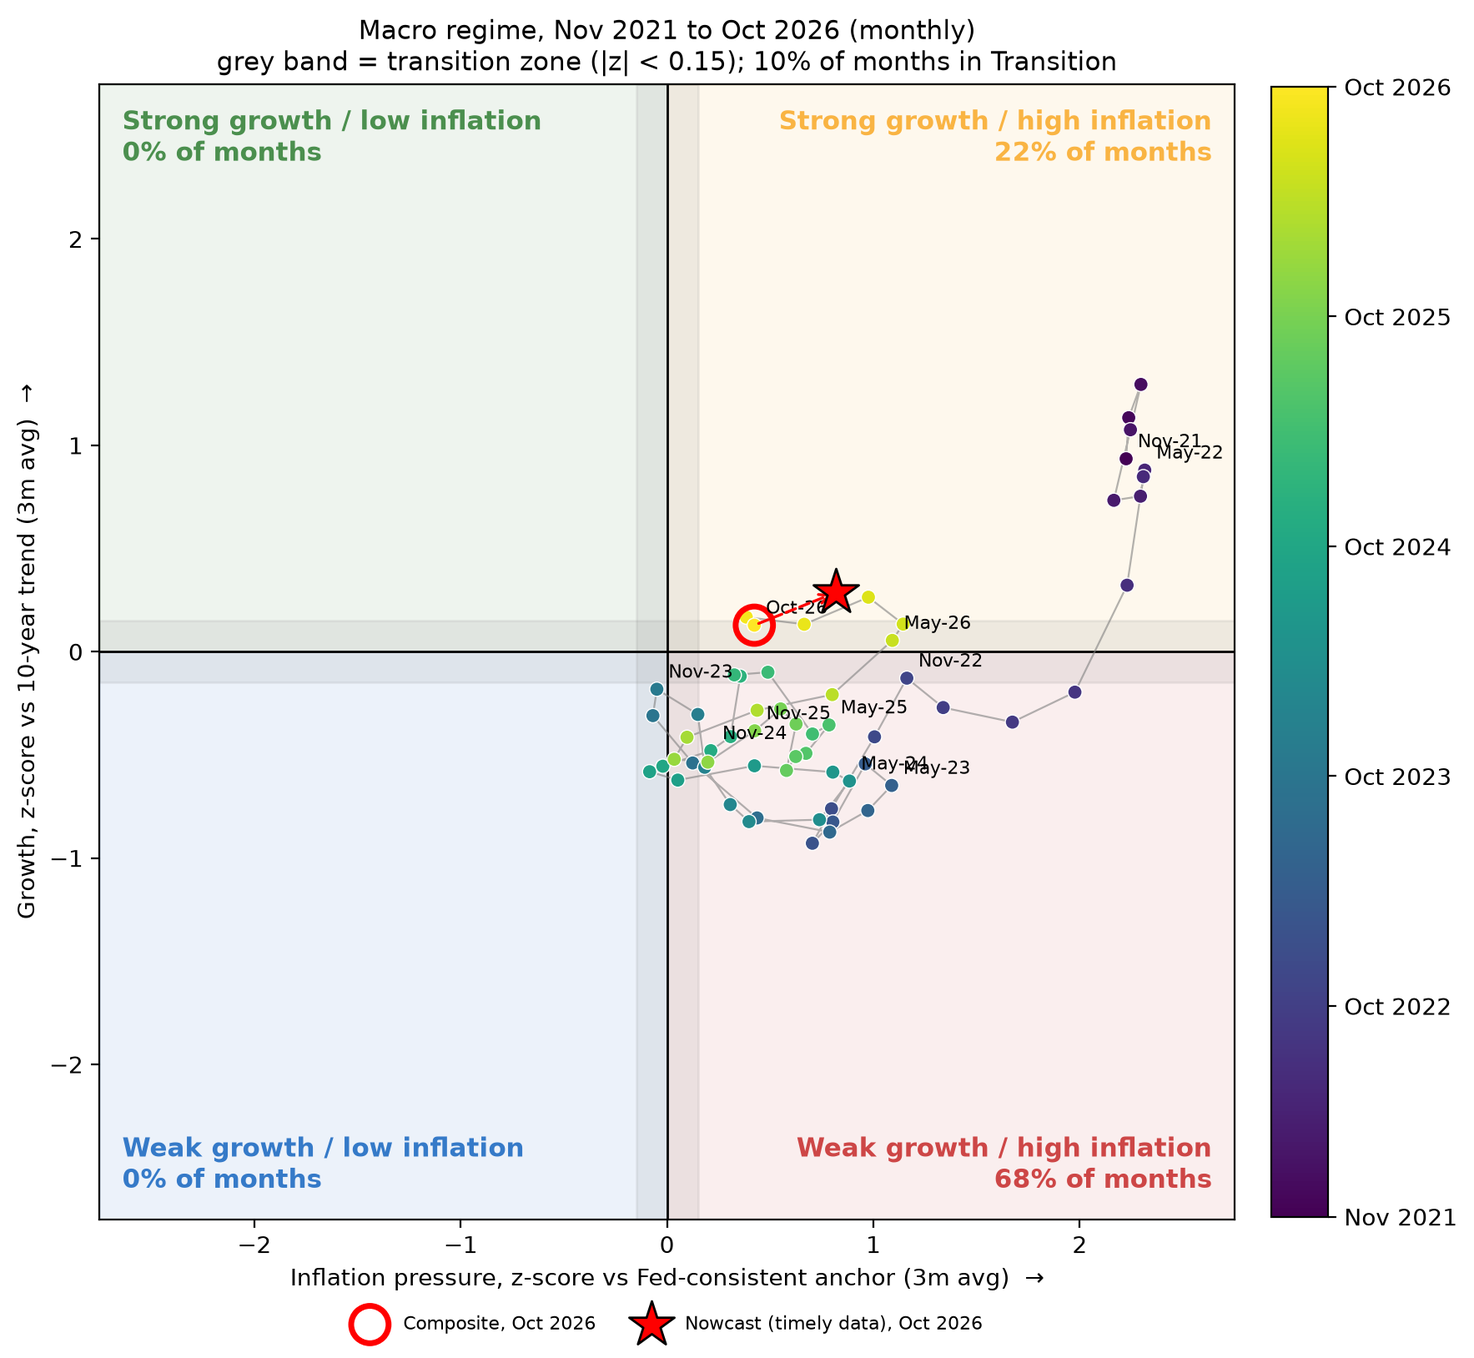
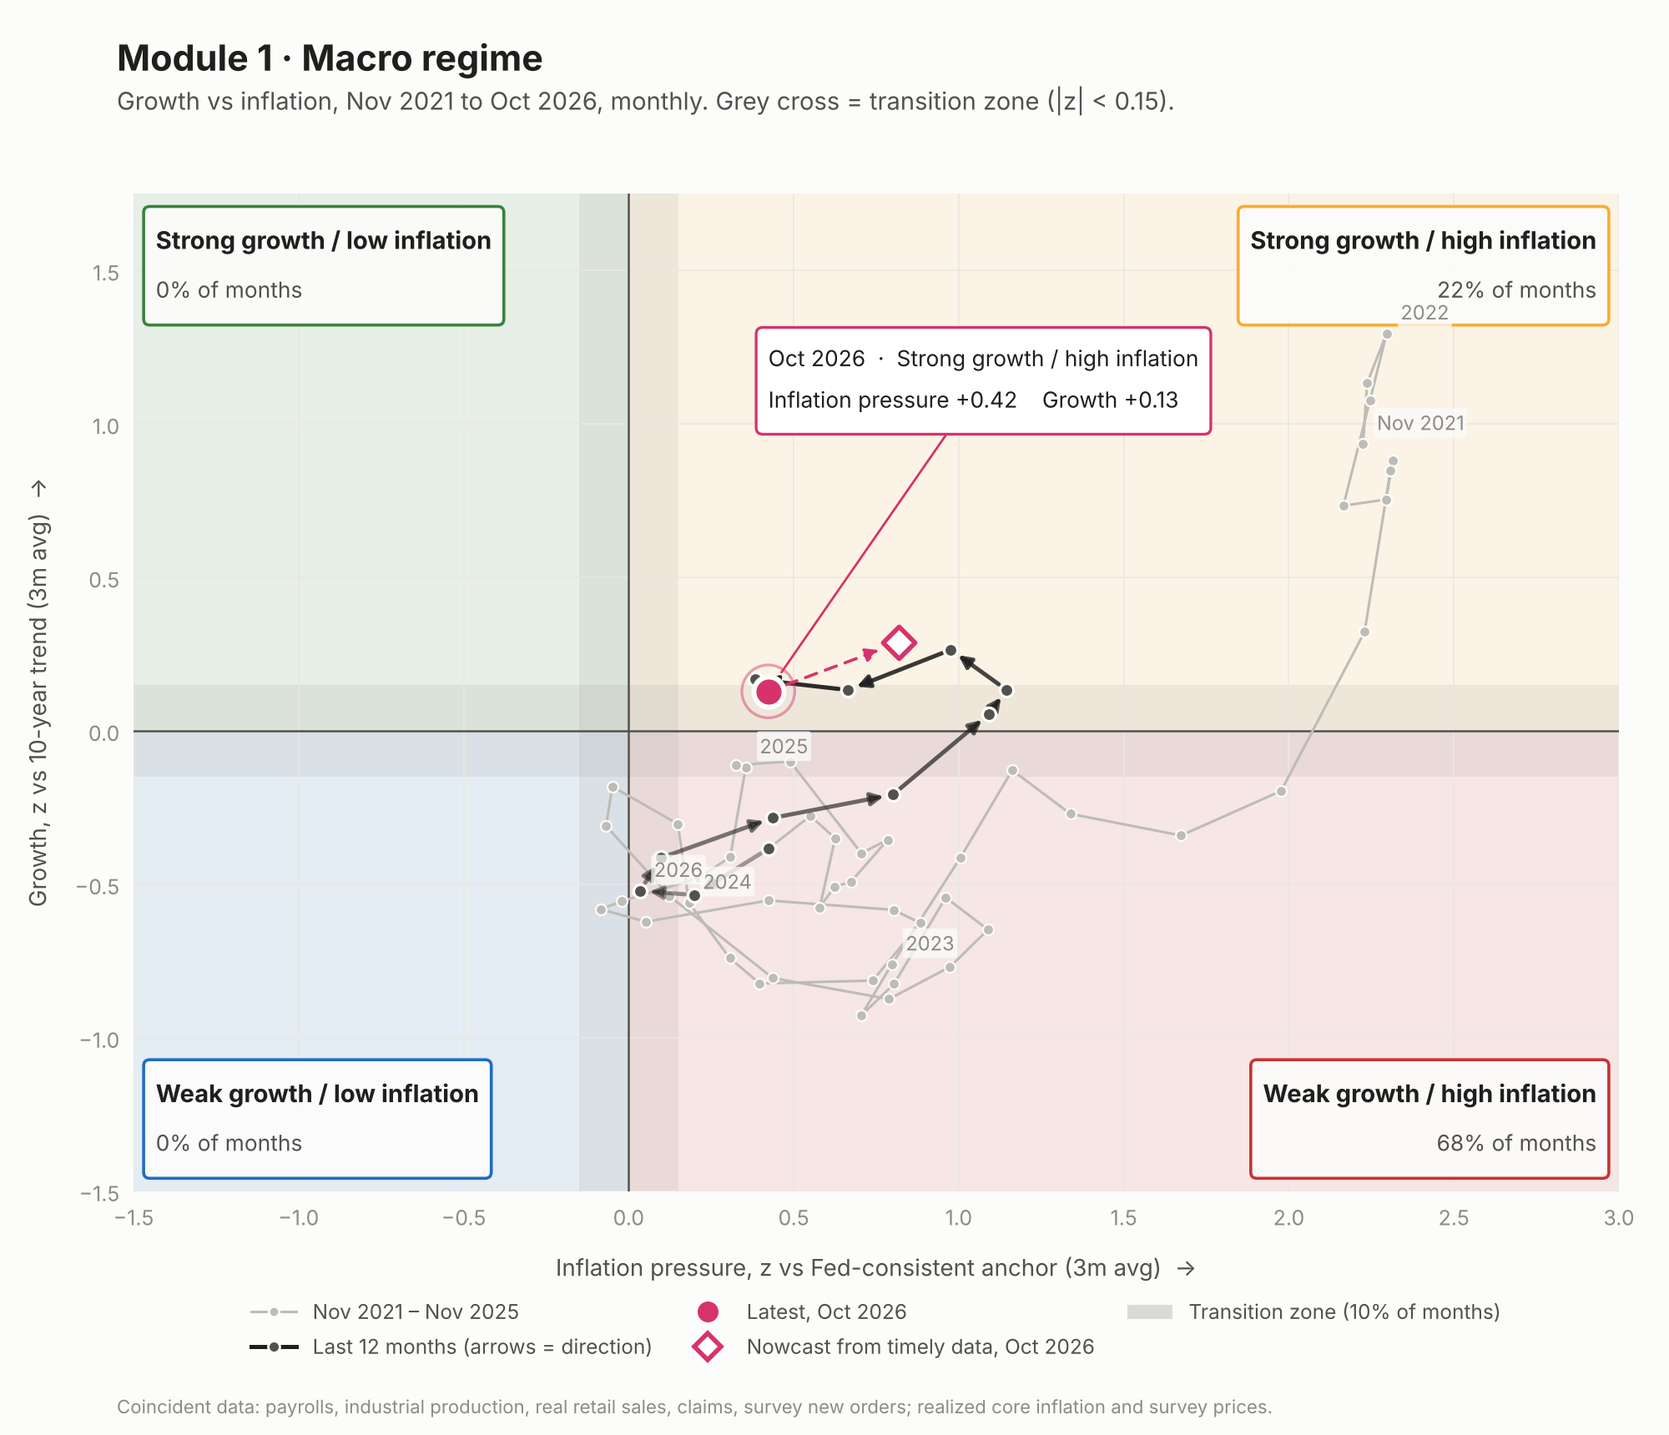
Redesign Module 1 regime quadrant and Module 2 cycle clock
Shared plotting helper (src/quadrant_plot.py): recessive history trail, last 12 months
in ink with direction arrows, latest-reading callout, January year labels, data-fitted
axes, framed quadrant labels. No model, threshold or test changes.

Claude-Session: https://claude.ai/code/session_01XvrXAq3LaeCkBcjdXNqMog

diff --git a/src/quadrant_plot.py b/src/quadrant_plot.py
@@ -1,0 +1,201 @@
+"""Shared quadrant chart used by Module 1 (regime) and Module 2 (cycle clock).
+
+Design:
+  - quadrants are soft tints in the module's regime/phase colour; names sit in the corners with a
+    colour chip, so identity never rests on colour alone
+  - history is a recessive grey trail; the last `recent` months are drawn in ink with arrowheads,
+    so the eye goes to where the economy is heading, not to the oldest points
+  - one dot per month, January of each year labelled (no colourbar needed)
+  - the latest reading gets a callout with its coordinates and state
+  - axes fit the data (origin always visible) instead of a fixed symmetric square
+"""
+import textwrap
+import numpy as np
+import pandas as pd
+import matplotlib.pyplot as plt
+from matplotlib import font_manager
+from matplotlib.patches import Rectangle, FancyArrowPatch
+
+INK = "#1f1f1e"
+INK_2 = "#52514e"
+MUTED = "#8c8b86"
+TRAIL = "#bdbcb6"
+SURFACE = "#fcfcfb"
+ACCENT = "#d6336c"
+BAND = "#8c8b86"   # latest reading / nowcast only
+
+
+def _font():
+    names = {f.name for f in font_manager.fontManager.ttflist}
+    for fam in ["Inter", "Helvetica Neue", "Arial", "DejaVu Sans"]:
+        if fam in names:
+            return fam
+    return "sans-serif"
+
+
+def _crosses(p1, p2, p3, p4):
+    """True if segment p1-p2 properly intersects segment p3-p4."""
+    d = lambda a, b, c: (b[0] - a[0]) * (c[1] - a[1]) - (b[1] - a[1]) * (c[0] - a[0])
+    return (d(p1, p2, p3) * d(p1, p2, p4) < 0) and (d(p3, p4, p1) * d(p3, p4, p2) < 0)
+
+
+def plot_quadrant_path(x, y, labels, path, *, quads, colors, display, band_x, band_y,
+                       xlabel, ylabel, title, subtitle, months=60, recent=12,
+                       nowcast=None, transition="Transition", footer=None):
+    """x, y: monthly Series. labels: monthly state Series.
+    quads: {state: (sx, sy)} with sx, sy in {-1, +1} giving the quadrant of each state.
+    nowcast: optional (x, y, date) drawn as a hollow marker with a dashed arrow from the latest point.
+    """
+    tr = pd.concat([x, y], axis=1, keys=["x", "y"], sort=True).dropna().iloc[-months:]
+    lab = labels.reindex(tr.index)
+    share = lab.value_counts(normalize=True).mul(100)
+    n = len(tr)
+    recent = min(recent, n)
+
+    plt.rcParams.update({"font.family": _font(), "axes.unicode_minus": True})
+    fig, ax = plt.subplots(figsize=(10, 8.6), facecolor=SURFACE)
+    ax.set_facecolor(SURFACE)
+
+    # ---- limits: fit data (+ nowcast), always include origin and the bands, then pad
+    xs = list(tr["x"]) + ([nowcast[0]] if nowcast is not None else []) + [-band_x, band_x]
+    ys = list(tr["y"]) + ([nowcast[1]] if nowcast is not None else []) + [-band_y, band_y]
+    def lim(v):
+        lo, hi = min(min(v), 0), max(max(v), 0)
+        span = max(hi - lo, 1.0)
+        lo, hi = lo - 0.18 * span, hi + 0.18 * span
+        side = 0.42 * (hi - lo)          # every quadrant keeps room for its corner label
+        lo, hi = min(lo, -side), max(hi, side)
+        return np.floor(lo * 4) / 4, np.ceil(hi * 4) / 4
+    (x0, x1), (y0, y1) = lim(xs), lim(ys)
+    ax.set_xlim(x0, x1); ax.set_ylim(y0, y1)
+    X0, X1, Y0, Y1 = x0, x1, y0, y1
+
+    # ---- quadrant tints + transition cross
+    for st, (sx, sy) in quads.items():
+        rx = (0, X1) if sx > 0 else (X0, 0)
+        ry = (0, Y1) if sy > 0 else (Y0, 0)
+        ax.add_patch(Rectangle((rx[0], ry[0]), rx[1] - rx[0], ry[1] - ry[0],
+                               facecolor=colors[st], alpha=0.10, lw=0, zorder=0))
+    ax.add_patch(Rectangle((-band_x, Y0), 2 * band_x, Y1 - Y0, facecolor=BAND, alpha=0.12, lw=0, zorder=0.5))
+    ax.add_patch(Rectangle((X0, -band_y), X1 - X0, 2 * band_y, facecolor=BAND, alpha=0.12, lw=0, zorder=0.5))
+    ax.axhline(0, color=INK_2, lw=0.9, zorder=1); ax.axvline(0, color=INK_2, lw=0.9, zorder=1)
+
+    # ---- corner labels: name (bold ink) over share (secondary ink), framed in the state colour
+    for st, (sx, sy) in quads.items():
+        tx = 0.985 if sx > 0 else 0.015
+        ty = 0.975 if sy > 0 else 0.025
+        ha = "right" if sx > 0 else "left"
+        name, *rest = display[st].split(" (")
+        sub = f"{share.get(st, 0):.0f}% of months" + (f"  ·  {rest[0].rstrip(')')}" if rest else "")
+        va = "top" if sy > 0 else "bottom"
+        # invisible full-text box sizes the frame to both lines; the visible lines sit on top
+        ax.text(tx, ty, f"{name}\n{sub}", transform=ax.transAxes, ha=ha, va=va, fontsize=10.5,
+                fontweight="bold", color=(0, 0, 0, 0), linespacing=1.6, zorder=6,
+                bbox=dict(boxstyle="round,pad=0.5,rounding_size=0.25", facecolor=SURFACE,
+                          edgecolor=colors[st], lw=1.3, alpha=0.95))
+        ax.text(tx, ty, f"{name}\n ", transform=ax.transAxes, ha=ha, va=va, fontsize=10.5,
+                fontweight="bold", color=INK, linespacing=1.6, zorder=7)
+        ax.text(tx, ty, f" \n{sub}", transform=ax.transAxes, ha=ha, va=va, fontsize=9.5,
+                color=INK_2, linespacing=1.77, zorder=7)
+
+    # ---- trail: older months recessive, recent months in ink with direction arrows
+    old = tr.iloc[: n - recent + 1]
+    new = tr.iloc[n - recent:]
+    ax.plot(old["x"], old["y"], color=TRAIL, lw=1.1, zorder=2, solid_capstyle="round")
+    ax.scatter(old["x"].iloc[:-1], old["y"].iloc[:-1], s=22, color=TRAIL, edgecolor=SURFACE, lw=0.8, zorder=3)
+    for k in range(len(new) - 1):
+        a = (new["x"].iloc[k], new["y"].iloc[k]); b = (new["x"].iloc[k + 1], new["y"].iloc[k + 1])
+        alpha = 0.35 + 0.65 * (k + 1) / (len(new) - 1)
+        ax.add_patch(FancyArrowPatch(a, b, arrowstyle="-|>", mutation_scale=11, lw=1.8, color=INK,
+                                     alpha=alpha, shrinkA=4, shrinkB=4, zorder=4))
+    ax.scatter(new["x"].iloc[:-1], new["y"].iloc[:-1], s=34, color=INK_2, edgecolor=SURFACE, lw=1.2, zorder=5)
+
+    # ---- January markers (year labels) + start of window
+    marks = [tr.index[0]] + [d for d in tr.index[1:-1] if d.month == 1]
+    for d in marks:
+        px, py = tr.loc[d, "x"], tr.loc[d, "y"]
+        ax.annotate(d.strftime("%b %Y") if d == tr.index[0] else d.strftime("%Y"), (px, py),
+                    xytext=(6, 6), textcoords="offset points", fontsize=8.5, color=MUTED, zorder=6,
+                    bbox=dict(boxstyle="round,pad=0.15", facecolor=SURFACE, edgecolor="none", alpha=0.75))
+
+    # ---- latest reading
+    lx, ly, ld = tr["x"].iloc[-1], tr["y"].iloc[-1], tr.index[-1]
+    st_now = lab.iloc[-1]
+    if st_now == transition or pd.isna(st_now):
+        near = next(s for s, (sx, sy) in quads.items() if np.sign(lx or 1) == sx and np.sign(ly or 1) == sy)
+        state_txt = f"Transition, leaning {display[near].split(' (')[0]}"
+    else:
+        state_txt = display[st_now].split(" (")[0]
+    ax.scatter(lx, ly, s=170, color=ACCENT, edgecolor=SURFACE, lw=2.2, zorder=8)
+    ax.scatter(lx, ly, s=520, facecolor="none", edgecolor=ACCENT, lw=1.2, alpha=0.45, zorder=7)
+    # place the callout where it covers the fewest points (and stays clear of the corner labels)
+    fx = lambda v: (v - X0) / (X1 - X0)
+    fy = lambda v: (v - Y0) / (Y1 - Y0)
+    pts = np.c_[fx(tr["x"].values), fy(tr["y"].values)]
+    if nowcast is not None:
+        pts = np.vstack([pts, [fx(nowcast[0]), fy(nowcast[1])]])
+    trail = pts[: len(tr)]
+    W, H = 0.30, 0.13
+    best, ox0, oy0 = None, fx(lx), fy(ly)
+    for ang in np.linspace(0, 2 * np.pi, 16, endpoint=False):
+        for r in (0.14, 0.20, 0.27):
+            cx, cy = ox0 + r * np.cos(ang), oy0 + r * np.sin(ang)
+            bx0 = cx if np.cos(ang) >= 0 else cx - W
+            by0 = cy if np.sin(ang) >= 0 else cy - H
+            if bx0 < 0.01 or by0 < 0.01 or bx0 + W > 0.99 or by0 + H > 0.99:
+                continue
+            cover = ((pts[:, 0] > bx0 - 0.02) & (pts[:, 0] < bx0 + W + 0.02) &
+                     (pts[:, 1] > by0 - 0.02) & (pts[:, 1] < by0 + H + 0.02)).sum()
+            corner = sum(1 for cxl in (0, 1) for cyl in (0, 1)
+                         if abs((bx0 + W / 2) - cxl) < 0.5 * W + 0.24 and abs((by0 + H / 2) - cyl) < 0.5 * H + 0.11)
+            # points the leader line would cross
+            seg = np.array([cx - ox0, cy - oy0]); t = np.clip(((pts - [ox0, oy0]) @ seg) / (seg @ seg), 0.15, 1)
+            near = (np.hypot(*(pts - ([ox0, oy0] + t[:, None] * seg)).T) < 0.025).sum()
+            cross = sum(_crosses((ox0, oy0), (cx, cy), tuple(trail[k]), tuple(trail[k + 1]))
+                        for k in range(len(trail) - 3))
+            score = cover * 10 + corner * 25 + near * 4 + cross * 6 + r * 20
+            if best is None or score < best[0]:
+                best = (score, cx, cy, np.cos(ang) >= 0, np.sin(ang) >= 0)
+    _, cx, cy, right, up = best
+    ax.annotate(f"{ld:%b %Y}  ·  {state_txt}\n{xlabel.split(',')[0].split(':')[0].strip()} {lx:+.2f}    "
+                f"{ylabel.split(',')[0].split(':')[0].strip()} {ly:+.2f}",
+                (lx, ly), xytext=(cx, cy), textcoords="axes fraction",
+                ha="left" if right else "right", va="bottom" if up else "top",
+                fontsize=9.5, color=INK, linespacing=1.55, zorder=9, multialignment="left",
+                bbox=dict(boxstyle="round,pad=0.55,rounding_size=0.3", facecolor="white",
+                          edgecolor=ACCENT, lw=1.2),
+                arrowprops=dict(arrowstyle="-", color=ACCENT, lw=1, shrinkA=0, shrinkB=10))
+
+    handles = [plt.Line2D([], [], color=TRAIL, lw=1.1, marker="o", ms=4.5, mec=SURFACE,
+                          label=f"{tr.index[0]:%b %Y} – {tr.index[n - recent]:%b %Y}"),
+               plt.Line2D([], [], color=INK, lw=1.8, marker="o", ms=5, mfc=INK_2, mec=SURFACE,
+                          label=f"Last {recent} months (arrows = direction)"),
+               plt.Line2D([], [], ls="", marker="o", ms=10, color=ACCENT, mec=SURFACE, label=f"Latest, {ld:%b %Y}")]
+    if nowcast is not None and np.isfinite(nowcast[0]) and np.isfinite(nowcast[1]):
+        nx, ny, nd = nowcast
+        ax.add_patch(FancyArrowPatch((lx, ly), (nx, ny), arrowstyle="-|>", mutation_scale=12, lw=1.3,
+                                     color=ACCENT, ls=(0, (4, 3)), shrinkA=8, shrinkB=9, zorder=7))
+        ax.scatter(nx, ny, marker="D", s=95, facecolor="white", edgecolor=ACCENT, lw=2, zorder=8)
+        handles.append(plt.Line2D([], [], ls="", marker="D", ms=8, mfc="white", mec=ACCENT, mew=2,
+                                  label=f"Nowcast from timely data, {nd:%b %Y}"))
+    handles.append(Rectangle((0, 0), 1, 1, facecolor=BAND, alpha=0.3, lw=0,
+                             label=f"Transition zone ({share.get(transition, 0):.0f}% of months)"))
+
+    # ---- frame
+    for s in ax.spines.values():
+        s.set_visible(False)
+    ax.tick_params(colors=MUTED, labelsize=9, length=0, pad=6)
+    ax.grid(True, color="#e9e8e3", lw=0.6, zorder=0.6)
+    ax.set_axisbelow(True)
+    ax.set_xlabel(xlabel, color=INK_2, fontsize=10, labelpad=10)
+    ax.set_ylabel(ylabel, color=INK_2, fontsize=10, labelpad=10)
+    ax.legend(handles=handles, loc="upper center", bbox_to_anchor=(0.5, -0.09), ncol=3, fontsize=8.8,
+              frameon=False, labelcolor=INK_2, handlelength=2.2, columnspacing=1.6)
+
+    fig.text(0.07, 0.975, title, fontsize=15.5, fontweight="bold", color=INK, ha="left", va="top")
+    fig.text(0.07, 0.94, textwrap.fill(subtitle, 115), fontsize=10.5, color=INK_2, ha="left", va="top")
+    if footer:
+        fig.text(0.07, 0.012, footer, fontsize=8, color=MUTED, ha="left", va="bottom")
+    fig.subplots_adjust(left=0.08, right=0.97, top=0.865, bottom=0.17)
+    fig.savefig(path, dpi=200, facecolor=SURFACE)
+    plt.close(fig)

diff --git a/src/regime.py b/src/regime.py
@@ -31,6 +31,7 @@ from src.data import (fred, fred_optional, level, monthly, optional_csv, sector_
 from src.utils import (ann_change, chg, lagged, zscore, classify, classify_direction, episode_table,
                        forward_excess, conditional_stats, transition_matrix, forward_distribution,
                        ORDER, DISPLAY, DIR_ORDER)
+from src.quadrant_plot import plot_quadrant_path
 
 OUT = Path("outputs"); OUT.mkdir(exist_ok=True)
 
@@ -233,47 +234,22 @@ def _square_axes(ax, L):
 
 
 def plot_quadrant(g, i, labels, path, months=60, band=BAND, nowcast=None):
-    tr = pd.concat([g, i], axis=1, keys=["g", "i"]).dropna().iloc[-months:]
-    share = labels.reindex(tr.index).value_counts(normalize=True).mul(100)
-    L = np.ceil(max(tr.abs().max().max() * 1.15, 1.0) * 4) / 4
-    if nowcast is not None:
-        L = max(L, np.ceil(max(abs(nowcast[0]), abs(nowcast[1])) * 1.15 * 4) / 4)
-
-    fig, ax = plt.subplots(figsize=(9.5, 9))
-    _square_axes(ax, L)
-    pos = {"Goldilocks": (0.02, 0.98, "left", "top"), "Reflation": (0.98, 0.98, "right", "top"),
-           "Stagflation": (0.98, 0.02, "right", "bottom"), "Slowdown": (0.02, 0.02, "left", "bottom")}
-    for name, (x, y, ha, va) in pos.items():
-        ax.text(x, y, f"{DISPLAY[name]}\n{share.get(name, 0):.0f}% of months", transform=ax.transAxes,
-                ha=ha, va=va, fontsize=11, fontweight="bold", color=COLORS[name], alpha=0.85)
-    ax.axhline(0, c="k", lw=1); ax.axvline(0, c="k", lw=1)
-    ax.axhspan(-band, band, color="grey", alpha=0.12, zorder=1)
-    ax.axvspan(-band, band, color="grey", alpha=0.12, zorder=1)
-
-    ax.plot(tr["i"], tr["g"], "-", color="grey", lw=0.8, alpha=0.6, zorder=2)
-    sc = ax.scatter(tr["i"], tr["g"], c=np.arange(len(tr)), cmap="viridis", s=38,
-                    edgecolor="white", linewidth=0.5, zorder=3)
-    ax.scatter(tr["i"].iloc[-1], tr["g"].iloc[-1], s=260, facecolors="none",
-               edgecolors="red", linewidths=2.5, zorder=4, label=f"Composite, {tr.index[-1]:%b %Y}")
-    for k in sorted(set([0, len(tr) - 1] + list(range(0, len(tr), 6)))):
-        ax.annotate(tr.index[k].strftime("%b-%y"), (tr["i"].iloc[k], tr["g"].iloc[k]),
-                    xytext=(5, 5), textcoords="offset points", fontsize=8, zorder=5)
+    """Growth (y) vs inflation (x) path. nowcast = (growth, inflation, date) or None."""
+    tr = pd.concat([g, i], axis=1).dropna().iloc[-months:]
+    nc = None
     if nowcast is not None and not np.isnan(nowcast[0]) and not np.isnan(nowcast[1]):
-        ax.scatter(nowcast[1], nowcast[0], marker="*", s=420, c="red", edgecolor="k",
-                   zorder=6, label=f"Nowcast (timely data), {nowcast[2]:%b %Y}")
-        ax.annotate("", xy=(nowcast[1], nowcast[0]), xytext=(tr["i"].iloc[-1], tr["g"].iloc[-1]),
-                    arrowprops=dict(arrowstyle="->", color="red", lw=1.2, ls="--"), zorder=5)
-
-    cbar = fig.colorbar(sc, ax=ax, fraction=0.046, pad=0.03)
-    ticks = np.linspace(0, len(tr) - 1, 6, dtype=int)
-    cbar.set_ticks(ticks); cbar.set_ticklabels([tr.index[k].strftime("%b %Y") for k in ticks])
-    ax.legend(loc="upper center", bbox_to_anchor=(0.5, -0.07), ncol=2, fontsize=8, frameon=False)
-    ax.set_xlabel("Inflation pressure, z-score vs Fed-consistent anchor (3m avg)  →")
-    ax.set_ylabel("Growth, z-score vs 10-year trend (3m avg)  →")
-    ax.set_title(f"Macro regime, {tr.index[0]:%b %Y} to {tr.index[-1]:%b %Y} (monthly)\n"
-                 f"grey band = transition zone (|z| < {band}); "
-                 f"{share.get('Transition', 0):.0f}% of months in Transition", fontsize=11)
-    fig.savefig(path, dpi=200, bbox_inches="tight"); plt.close(fig)
+        nc = (nowcast[1], nowcast[0], nowcast[2])
+    plot_quadrant_path(
+        i, g, labels, path, months=months, nowcast=nc,
+        quads={"Goldilocks": (-1, 1), "Reflation": (1, 1), "Stagflation": (1, -1), "Slowdown": (-1, -1)},
+        colors=COLORS, display=DISPLAY, band_x=band, band_y=band,
+        xlabel="Inflation pressure, z vs Fed-consistent anchor (3m avg)  →",
+        ylabel="Growth, z vs 10-year trend (3m avg)  →",
+        title="Module 1 · Macro regime",
+        subtitle=f"Growth vs inflation, {tr.index[0]:%b %Y} to {tr.index[-1]:%b %Y}, monthly. "
+                 f"Grey cross = transition zone (|z| < {band}).",
+        footer="Coincident data: payrolls, industrial production, real retail sales, claims, survey new orders; "
+               "realized core inflation and survey prices.")
 
 
 def plot_edge_heatmap(stats, eps, path, order=ORDER, display=DISPLAY, what="regime", horizon="Next-month"):

diff --git a/src/cycle.py b/src/cycle.py
@@ -41,6 +41,7 @@ from src.utils import (chg, lagged, zscore, run_ids, episode_table, forward_exce
                        transition_matrix, forward_distribution, _mad)
 from src.regime import (finalize, EDGE_LOG, thesis_verdict, plot_edge_heatmap, build_regime,
                         SECTORS, ROW_NAME, DEFENSIVE, GROWTH, SAMPLE_START)
+from src.quadrant_plot import plot_quadrant_path
  
 OUT = Path("outputs"); OUT.mkdir(exist_ok=True)
  
@@ -262,38 +263,21 @@ def plot_dashboard(C, prob, path, start="1997-01-01"):
  
  
 def plot_clock(lvl, mom, labels, path, months=60):
-    tr = pd.concat([mom, lvl], axis=1, keys=["x", "y"], sort=True).dropna().iloc[-months:]
-    share = labels.reindex(tr.index).value_counts(normalize=True).mul(100)
-    L = np.ceil(max(tr.abs().max().max() * 1.15, 1.0) * 4) / 4
-    fig, ax = plt.subplots(figsize=(9.5, 9))
-    ax.set_xlim(-L, L); ax.set_ylim(-L, L); ax.set_aspect("equal")
-    quads = {"Early": (0.5, 0.0), "Mid": (0.5, 0.5), "Late": (0.0, 0.5), "Contraction": (0.0, 0.0)}
-    pos = {"Mid": (0.98, 0.98, "right", "top"), "Late": (0.02, 0.98, "left", "top"),
-           "Contraction": (0.02, 0.02, "left", "bottom"), "Early": (0.98, 0.02, "right", "bottom")}
-    for k, (x0, y0) in quads.items():
-        ax.add_patch(plt.Rectangle((x0, y0), 0.5, 0.5, transform=ax.transAxes, color=PCOLORS[k], alpha=0.08, zorder=0))
-        x, y, ha, va = pos[k]
-        ax.text(x, y, f"{PDISPLAY[k]}\n{share.get(k, 0):.0f}% of months", transform=ax.transAxes, ha=ha, va=va,
-                fontsize=10.5, fontweight="bold", color=PCOLORS[k], alpha=0.85)
-    ax.axhline(0, c="k", lw=1); ax.axvline(0, c="k", lw=1)
-    ax.axhspan(-BAND_LEVEL, BAND_LEVEL, color="grey", alpha=0.12); ax.axvspan(-BAND_MOM, BAND_MOM, color="grey", alpha=0.12)
-    ax.plot(tr["x"], tr["y"], "-", color="grey", lw=0.8, alpha=0.6, zorder=2)
-    sc = ax.scatter(tr["x"], tr["y"], c=np.arange(len(tr)), cmap="viridis", s=38, edgecolor="white", lw=0.5, zorder=3)
-    ax.scatter(tr["x"].iloc[-1], tr["y"].iloc[-1], s=260, facecolors="none", edgecolors="red", lw=2.5, zorder=4)
-    for k in sorted(set([0, len(tr) - 1] + list(range(0, len(tr), 6)))):
-        ax.annotate(tr.index[k].strftime("%b-%y"), (tr["x"].iloc[k], tr["y"].iloc[k]), xytext=(5, 5),
-                    textcoords="offset points", fontsize=8)
-    cb = fig.colorbar(sc, ax=ax, fraction=0.046, pad=0.03)
-    t = np.linspace(0, len(tr) - 1, 6, dtype=int)
-    cb.set_ticks(t); cb.set_ticklabels([tr.index[k].strftime("%b %Y") for k in t])
-    ax.set_xlabel("Momentum: 3-month change of the composite (robust units)  →  improving")
-    ax.set_ylabel("Level: leading composite vs 10-year baseline (z, 3m avg)  →  above average")
-    ax.set_title(f"Cycle clock, {tr.index[0]:%b %Y} to {tr.index[-1]:%b %Y} (monthly; red ring = latest)\n"
-                 f"Counter-clockwise: Recovery → Expansion → Late → Contraction; "
-                 f"{share.get('Transition', 0):.0f}% of months in Transition", fontsize=10.5)
-    fig.savefig(path, dpi=200, bbox_inches="tight"); plt.close(fig)
- 
- 
+    """Cycle clock: level (y) vs momentum (x); phases rotate counter-clockwise."""
+    tr = pd.concat([mom, lvl], axis=1).dropna().iloc[-months:]
+    plot_quadrant_path(
+        mom, lvl, labels, path, months=months,
+        quads={"Mid": (1, 1), "Late": (-1, 1), "Contraction": (-1, -1), "Early": (1, -1)},
+        colors=PCOLORS, display=PDISPLAY, band_x=BAND_MOM, band_y=BAND_LEVEL,
+        xlabel="Momentum, 3-month change of the composite (robust units)  →  improving",
+        ylabel="Level, leading composite vs 10-year baseline (z, 3m avg)  →  above average",
+        title="Module 2 · Cycle clock",
+        subtitle=f"Leading-indicator level vs momentum, {tr.index[0]:%b %Y} to {tr.index[-1]:%b %Y}, monthly. "
+                 f"Phases rotate counter-clockwise: Recovery → Expansion → Late → Contraction.",
+        footer="Leading inputs: ISM new orders less inventories, building permits, manufacturing hours, "
+               "consumer sentiment, credit spreads (6-month changes).")
+
+
 def plot_thesis(stats3, current, slope, path):
     fig, axes = plt.subplots(1, 2, figsize=(13, 5.5), sharey=True)
     for ax, name, ttl in [(axes[0], "DEF-GRW", "Defensives (XLP,XLU,XLV) minus Growth (XLK,XLY)"),
